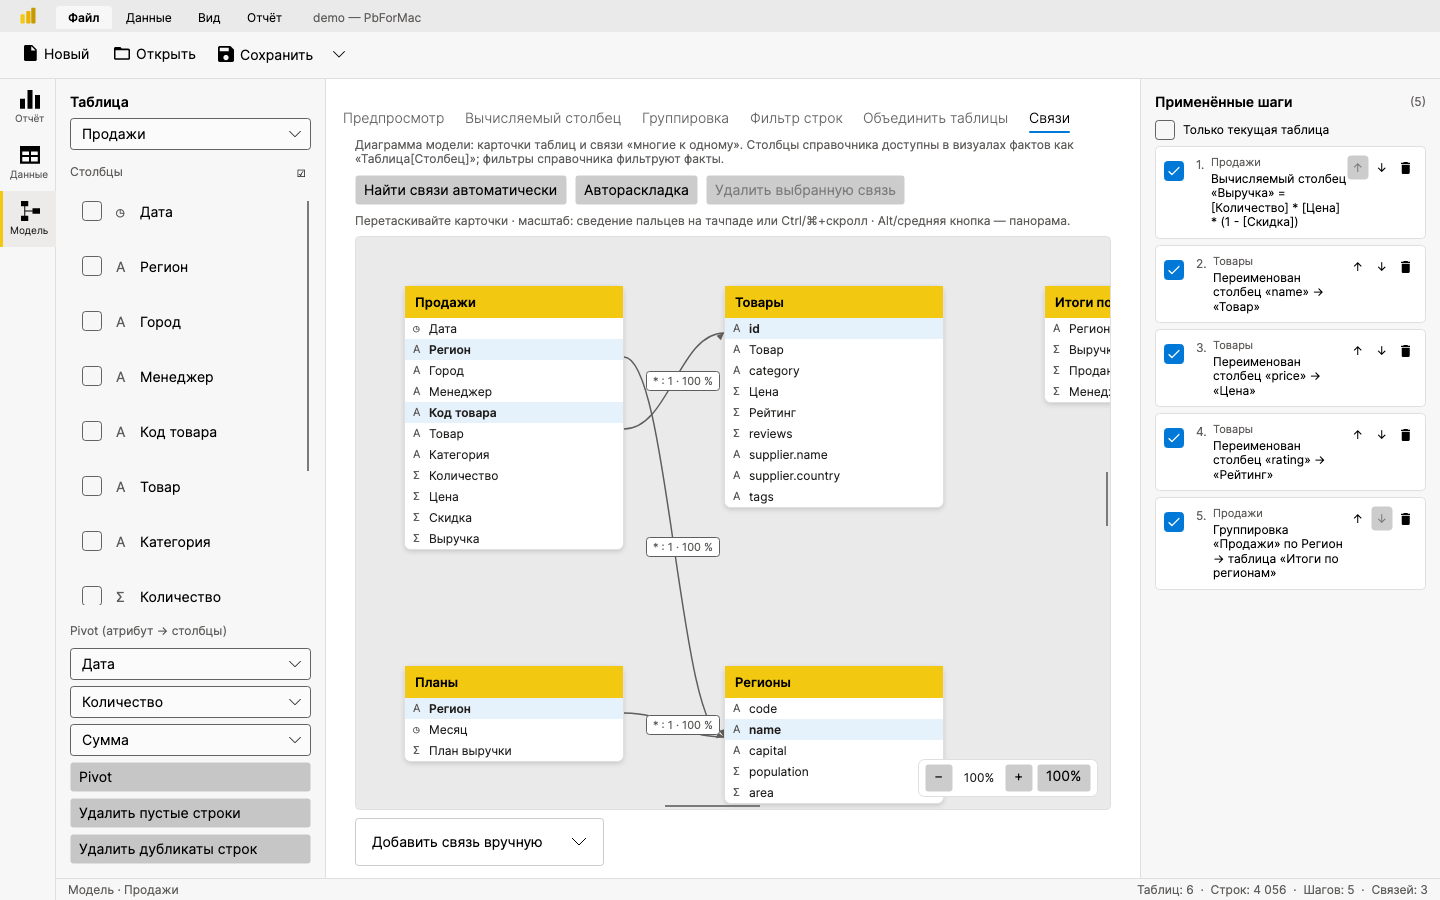
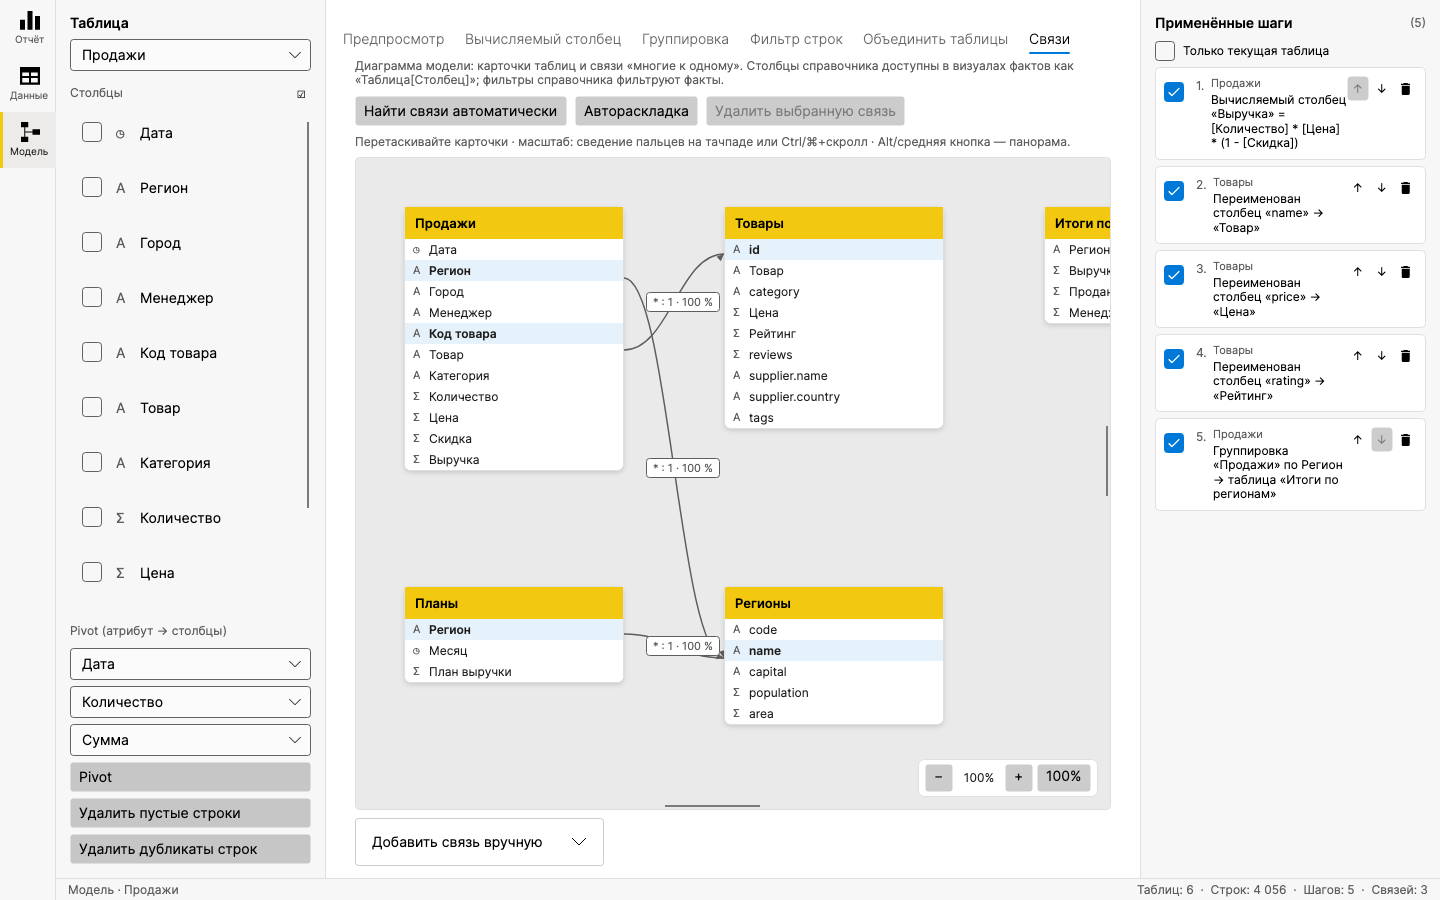
Hide in-window ribbon on macOS; keep it on Windows and Linux.

diff --git a/tests/PbForMac.Tests/ReportViewUiTests.cs b/tests/PbForMac.Tests/ReportViewUiTests.cs
@@ -68,20 +68,31 @@ public class ReportViewUiTests
     }
 
     [AvaloniaFact]
-    public void Toolbar_HasRibbonTabs_AndNoSampleButton()
+    public void Toolbar_RibbonVisibleOnlyOffMac()
     {
         var window = new MainWindow();
-        window.DataContext = new MainWindowViewModel(new NoDialogs(), new ThemeService(Application.Current!), new AppSettings());
+        var vm = new MainWindowViewModel(new NoDialogs(), new ThemeService(Application.Current!), new AppSettings());
+        window.DataContext = vm;
         window.Show();
         Dispatcher.UIThread.RunJobs();
 
-        var texts = window.GetVisualDescendants().OfType<TextBlock>().Select(t => t.Text).ToList();
-        Assert.Contains("Файл", texts);
-        Assert.Contains("Данные", texts);
-        Assert.Contains("Вид", texts);
-        Assert.Contains("Отчёт", texts);
-        Assert.Contains("Получить данные", texts);
+        var ribbon = Assert.IsType<Border>(window.FindControl<Border>("InWindowRibbon"));
+        Assert.Equal(vm.ShowInWindowRibbon, ribbon.IsVisible);
+        Assert.Equal(!OperatingSystem.IsMacOS(), vm.ShowInWindowRibbon);
+
+        var texts = window.GetVisualDescendants().OfType<TextBlock>()
+            .Where(t => t.IsEffectivelyVisible)
+            .Select(t => t.Text)
+            .ToList();
         Assert.DoesNotContain("Пример", texts);
+        if (vm.ShowInWindowRibbon)
+        {
+            Assert.Contains("Файл", texts);
+            Assert.Contains("Данные", texts);
+            Assert.Contains("Вид", texts);
+            Assert.Contains("Отчёт", texts);
+            Assert.Contains("Получить данные", texts);
+        }
     }
 
     private sealed class NoDialogs : IDialogService

diff --git a/src/PbForMac/ViewModels/MainWindowViewModel.cs b/src/PbForMac/ViewModels/MainWindowViewModel.cs
@@ -78,6 +78,9 @@ public sealed partial class MainWindowViewModel : ViewModelBase
     public bool IsDataPage => CurrentPage == Data;
     public bool IsModelPage => CurrentPage == Transform;
 
+    /// <summary>Лента внутри окна — на Windows/Linux; на macOS команды только в системном меню.</summary>
+    public bool ShowInWindowRibbon { get; } = !OperatingSystem.IsMacOS();
+
     [ObservableProperty]
     [NotifyPropertyChangedFor(nameof(IsRibbonFile), nameof(IsRibbonData), nameof(IsRibbonView), nameof(IsRibbonReport))]
     private string _ribbonTab = "Файл";

diff --git a/src/PbForMac/Views/MainWindow.axaml.cs b/src/PbForMac/Views/MainWindow.axaml.cs
@@ -31,6 +31,7 @@ public partial class MainWindow : Window
         Add(Key.T, vm.ToggleThemeCommand, KeyModifiers.Shift);
         Add(Key.R, vm.RefreshCommand);
         Add(Key.E, vm.ExportPngCommand);
+        Add(Key.E, vm.ExportExcelCommand, KeyModifiers.Shift);
         Add(Key.D1, vm.ShowReportCommand);
         Add(Key.D2, vm.ShowDataCommand);
         Add(Key.D3, vm.ShowModelCommand);
